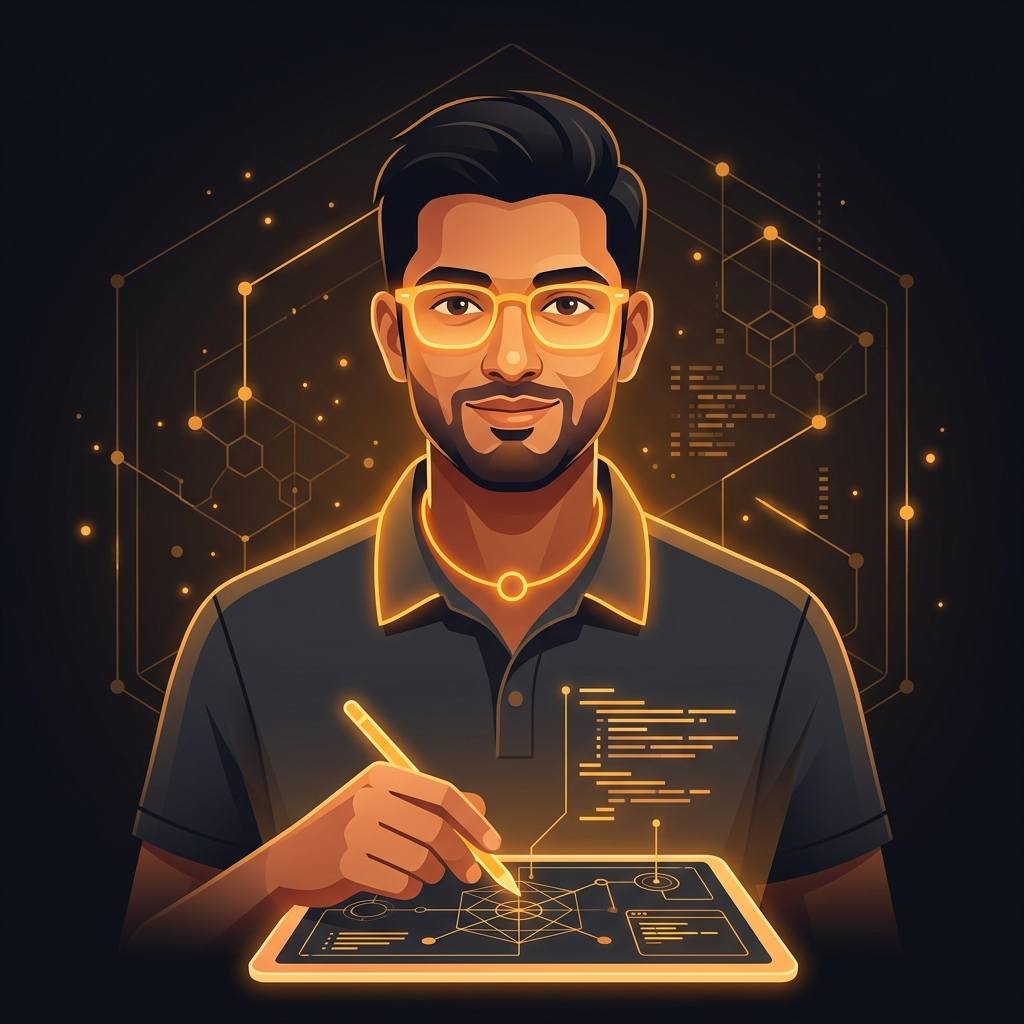
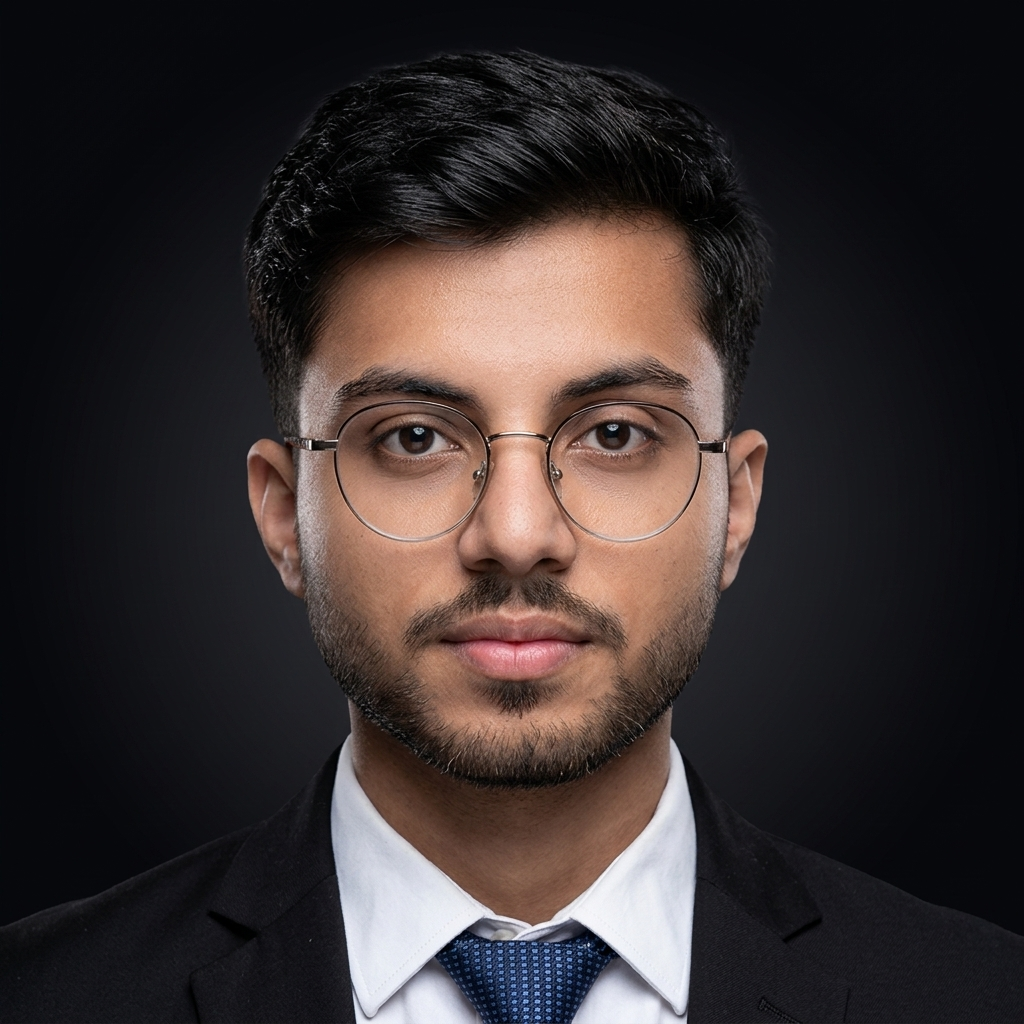
Fix: akshit.ai branding, warm cream light theme, new email, professional headshot, 10+ workflows

diff --git a/src/app/globals.css b/src/app/globals.css
@@ -24,9 +24,10 @@ body {
   @apply bg-[#09090b] text-zinc-100;
 }
 
-/* ── Light theme ── */
+/* ── Light theme (warm cream) ── */
 body.light {
-  @apply bg-[#fafaf9] text-zinc-900;
+  background-color: #FAF7F2;
+  color: #1c1917;
 }
 
 /* ── Gradient text (muted, warm) ── */
@@ -51,8 +52,8 @@ body.light .gradient-text {
 }
 
 body.light .glass-effect {
-  background: rgba(255, 255, 255, 0.65);
-  border: 1px solid rgba(212, 212, 216, 0.4);
+  background: rgba(250, 247, 242, 0.75);
+  border: 1px solid rgba(214, 204, 187, 0.4);
 }
 
 /* ── Terminal prompt prefix ── */
@@ -98,8 +99,8 @@ body.light .card:hover {
 }
 
 body.light .agent-search-bar {
-  background: rgba(255, 255, 255, 0.6);
-  border-color: rgba(212, 212, 216, 0.5);
+  background: rgba(250, 247, 242, 0.7);
+  border-color: rgba(214, 204, 187, 0.5);
 }
 
 body.light .agent-search-bar:focus-within {
@@ -121,53 +122,53 @@ body.light .text-slate-500 { color: #a1a1aa; }
 body.light .text-slate-200 { color: #3f3f46; }
 body.light .text-slate-100 { color: #27272a; }
 
-/* ── Light theme border overrides ── */
+/* ── Light theme border overrides (warm stone) ── */
 body.light .border-zinc-800,
 body.light .border-zinc-800\/80,
-body.light .border-zinc-800\/60 { border-color: #e4e4e7; }
+body.light .border-zinc-800\/60 { border-color: #e7e0d6; }
 body.light .border-zinc-700,
-body.light .border-zinc-700\/60 { border-color: #d4d4d8; }
-body.light .border-slate-800 { border-color: #e4e4e7; }
-body.light .border-slate-700 { border-color: #d4d4d8; }
+body.light .border-zinc-700\/60 { border-color: #d6ccbb; }
+body.light .border-slate-800 { border-color: #e7e0d6; }
+body.light .border-slate-700 { border-color: #d6ccbb; }
 body.light .border-transparent { border-color: transparent; }
 
-/* ── Light theme background overrides ── */
+/* ── Light theme background overrides (warm cream) ── */
 body.light .bg-zinc-900,
 body.light .bg-zinc-900\/50,
 body.light .bg-zinc-900\/30,
-body.light .bg-zinc-900\/40 { background-color: rgba(255, 255, 255, 0.75); }
-body.light .bg-zinc-950 { background-color: #fafaf9; }
+body.light .bg-zinc-900\/40 { background-color: rgba(255, 252, 247, 0.8); }
+body.light .bg-zinc-950 { background-color: #FAF7F2; }
 body.light .bg-zinc-800\/40,
-body.light .bg-zinc-800\/50 { background-color: rgba(244, 244, 245, 0.8); }
-body.light .bg-zinc-100 { background-color: #18181b; }
+body.light .bg-zinc-800\/50 { background-color: rgba(245, 240, 232, 0.8); }
+body.light .bg-zinc-100 { background-color: #292524; }
 body.light .bg-slate-950\/70,
 body.light .bg-slate-950\/75,
 body.light .bg-slate-950\/80,
 body.light .bg-slate-950\/90,
 body.light .bg-slate-950\/95,
 body.light .bg-slate-900\/70,
-body.light .bg-slate-900\/80 { background-color: rgba(255, 255, 255, 0.85); }
-body.light .bg-slate-950 { background-color: #fafaf9; }
-body.light .bg-slate-900 { background-color: #ffffff; }
+body.light .bg-slate-900\/80 { background-color: rgba(255, 252, 247, 0.9); }
+body.light .bg-slate-950 { background-color: #FAF7F2; }
+body.light .bg-slate-900 { background-color: #FFFCF7; }
 
 /* ── Light theme nav/footer ── */
-body.light .bg-\[#09090b\]\/90 { background-color: rgba(250, 250, 249, 0.92); }
-body.light .bg-\[#0f0f12\]\/95 { background-color: rgba(255, 255, 255, 0.95); }
+body.light .bg-\[#09090b\]\/90 { background-color: rgba(250, 247, 242, 0.94); }
+body.light .bg-\[#0f0f12\]\/95 { background-color: rgba(255, 252, 247, 0.96); }
 body.light .bg-black\/60 { background-color: rgba(0, 0, 0, 0.3); }
 
 /* ── Light theme amber accents ── */
 body.light .text-amber-300,
-body.light .text-amber-300\/80 { color: #b45309; }
+body.light .text-amber-300\/80 { color: #92400e; }
 body.light .text-amber-400\/70,
 body.light .text-amber-400\/60,
-body.light .text-amber-400\/50 { color: #d97706; }
+body.light .text-amber-400\/50 { color: #b45309; }
 body.light .bg-amber-400\/10,
 body.light .bg-amber-400\/15,
-body.light .bg-amber-400\/20 { background-color: rgba(217, 119, 6, 0.1); }
-body.light .border-amber-400\/20 { border-color: rgba(217, 119, 6, 0.2); }
+body.light .bg-amber-400\/20 { background-color: rgba(180, 83, 9, 0.08); }
+body.light .border-amber-400\/20 { border-color: rgba(180, 83, 9, 0.15); }
 
 /* ── Light theme misc ── */
-body.light .shadow-black\/20 { --tw-shadow-color: rgba(0, 0, 0, 0.08); }
+body.light .shadow-black\/20 { --tw-shadow-color: rgba(0, 0, 0, 0.06); }
 body.light .bg-transparent { background-color: transparent; }
 
 /* ── Scrollbar (subtle) ── */
@@ -189,15 +190,15 @@ body.light .bg-transparent { background-color: transparent; }
 }
 
 body.light ::-webkit-scrollbar-track {
-  background: #fafaf9;
+  background: #FAF7F2;
 }
 
 body.light ::-webkit-scrollbar-thumb {
-  background: #d4d4d8;
+  background: #d6ccbb;
 }
 
 body.light ::-webkit-scrollbar-thumb:hover {
-  background: #a1a1aa;
+  background: #b8a898;
 }
 
 /* ── Selection ── */

diff --git a/src/data/profile.ts b/src/data/profile.ts
@@ -5,7 +5,7 @@ export const profile = {
   "title": "AI Engineer | Agentic AI, RAG, LLMOps, Azure AI Foundry & Voice AI",
   "badge": "GATE 2025 Top 9% | OCI Data Science & GenAI Certified",
   "summary": "AI Engineer with production experience orchestrating agentic AI systems, RAG pipelines, LLM evaluation workflows, and Azure AI platforms. I build scalable AI products with FastAPI, Azure AI Foundry, PromptFlow, OpenAI, Gemini, MCP, vector retrieval, and real-time speech systems.",
-  "email": "[email redacted]",
+  "email": "[email redacted]",
   "phone": "+918787232180",
   "location": "India",
   "links": {
@@ -26,7 +26,7 @@ export const profile = {
     },
     {
       "label": "Enterprise Workflows",
-      "value": "3+",
+      "value": "10+",
       "tone": "amber"
     },
     {

diff --git a/src/components/Navbar.tsx b/src/components/Navbar.tsx
@@ -44,7 +44,7 @@ export default function Navbar() {
               <Terminal className="h-4 w-4" />
             </span>
             <span className="font-semibold text-zinc-100 tracking-tight">
-              akshit<span className="text-amber-300/80">.</span>dev
+              akshit<span className="text-amber-300/80">.</span>ai
             </span>
           </Link>
 